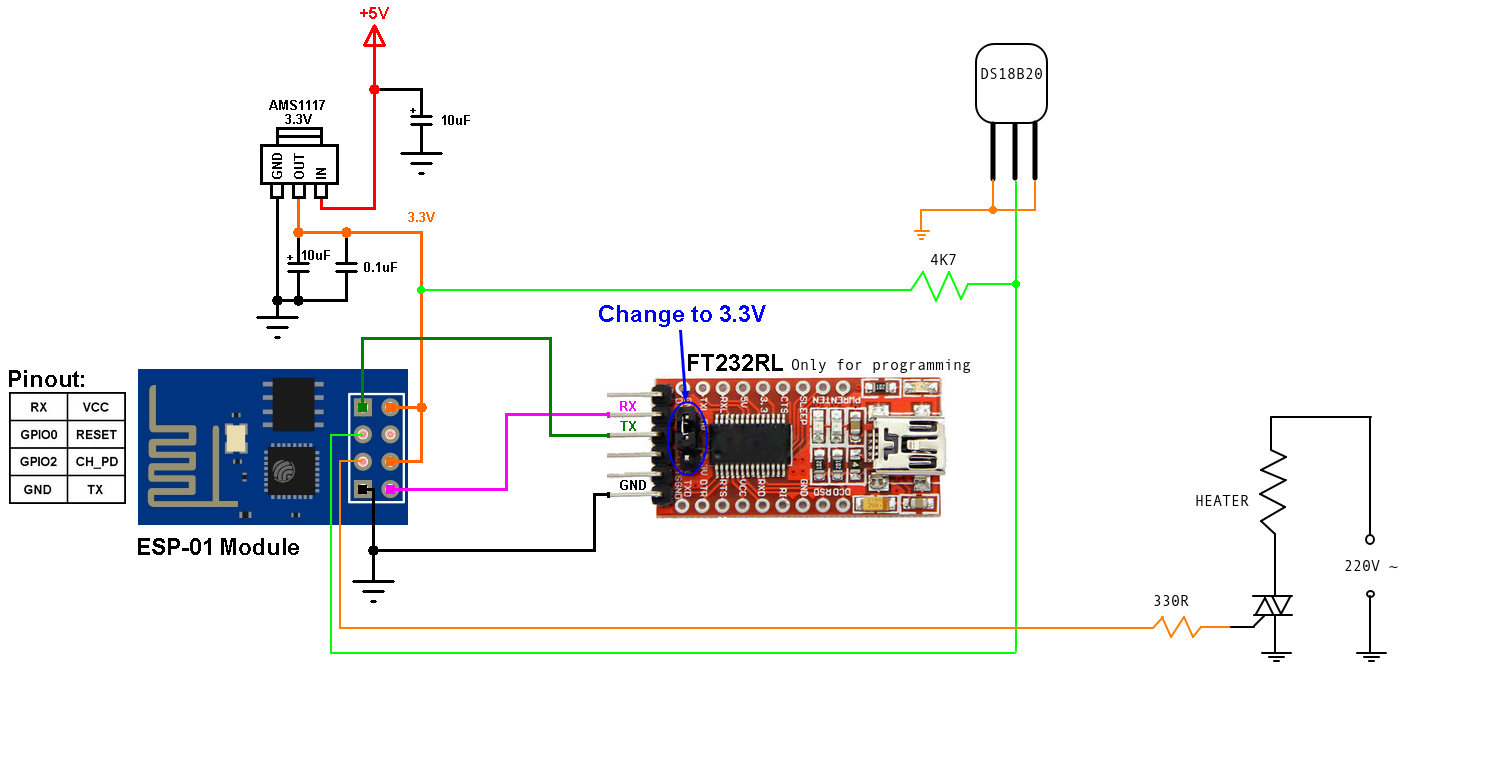
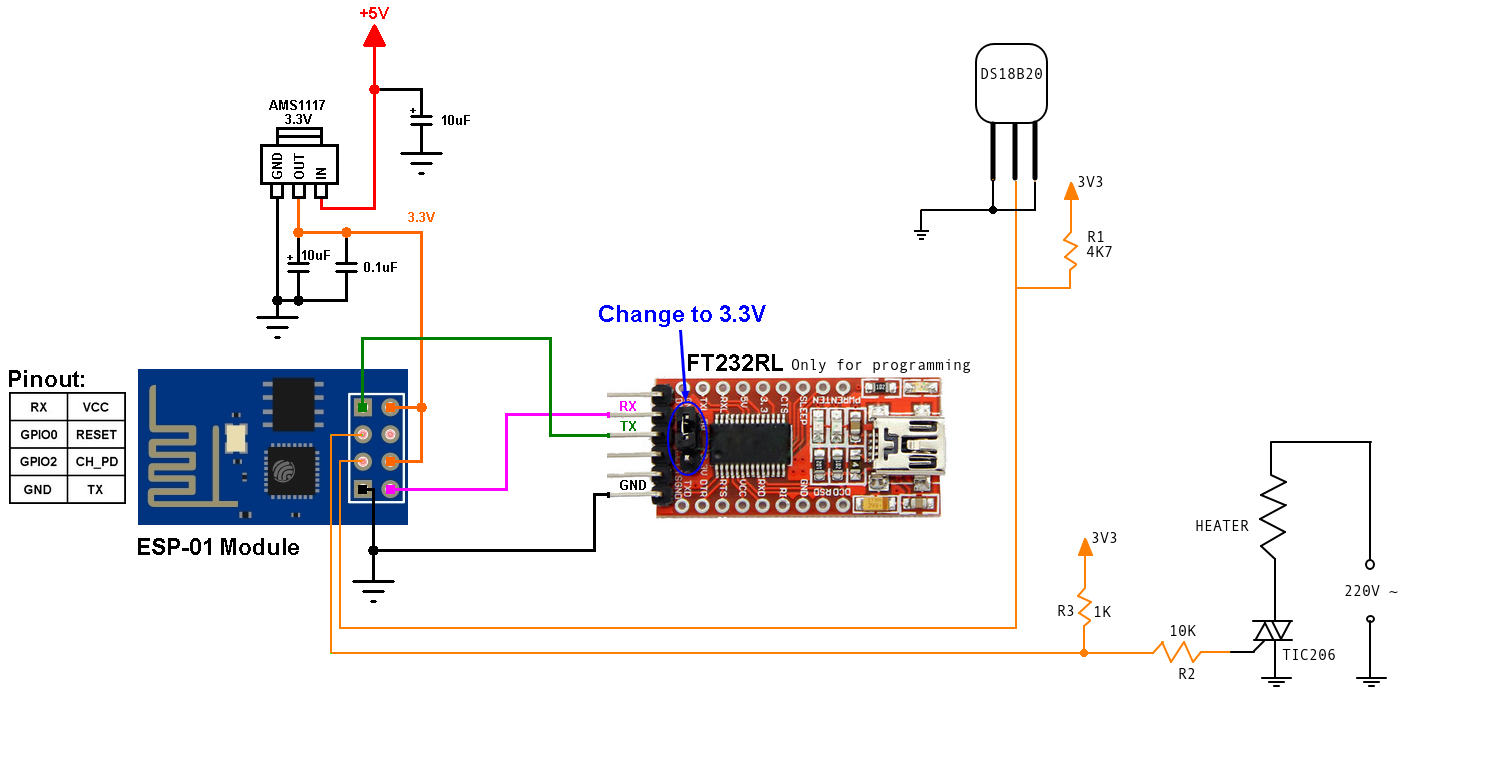
Updates

diff --git a/README.md b/README.md
@@ -1,9 +1,14 @@
 # ESP8266_simple_termostat
+This is my solution for not too minimal, but still simple enogh WiFi thermostat. I use it to maintain temperature of a miniature oven for drying silica gel. The size is about 10x10x15cm. Since it only has one purpose, the temeparture is fixed, but it would not be much effort to make it adjustable. I added the Over The Air update to easilly update the firmware. Just go to "/start_ota_update/" page to trigger the OTA server.
 
 ## Dependencies 
 Arduino linraries: "OneWire", "DallasTemperature", "ArduinoOTA", "ESP8266WebServer"
 
 ## Hardware
-ESP8266-01 or any ESP8266 general module, voltage stabilizer 3V3, Relay or Thyristor connected to GPIO02 to activate a heater.
+ESP8266-01 or any ESP8266 general module, voltage stabilizer 3V3, Relay or Thyristor to activate a heater. Most triacs require over 20mA to trigger, but ESP8266 can only supply up to 12mA, so I am using TIC206 because of extremelly small gate trigger current.
 
+NOTE: I had the code working and temperature was properly displayed, but the moment I connected the triac, the ESP module would not boot. 
+It took adding R3 to 3V3 to get it to work. I could not find the reason for this, so if you do, please let me know.
 
+## Contact
+ujagaga@gmail.com
